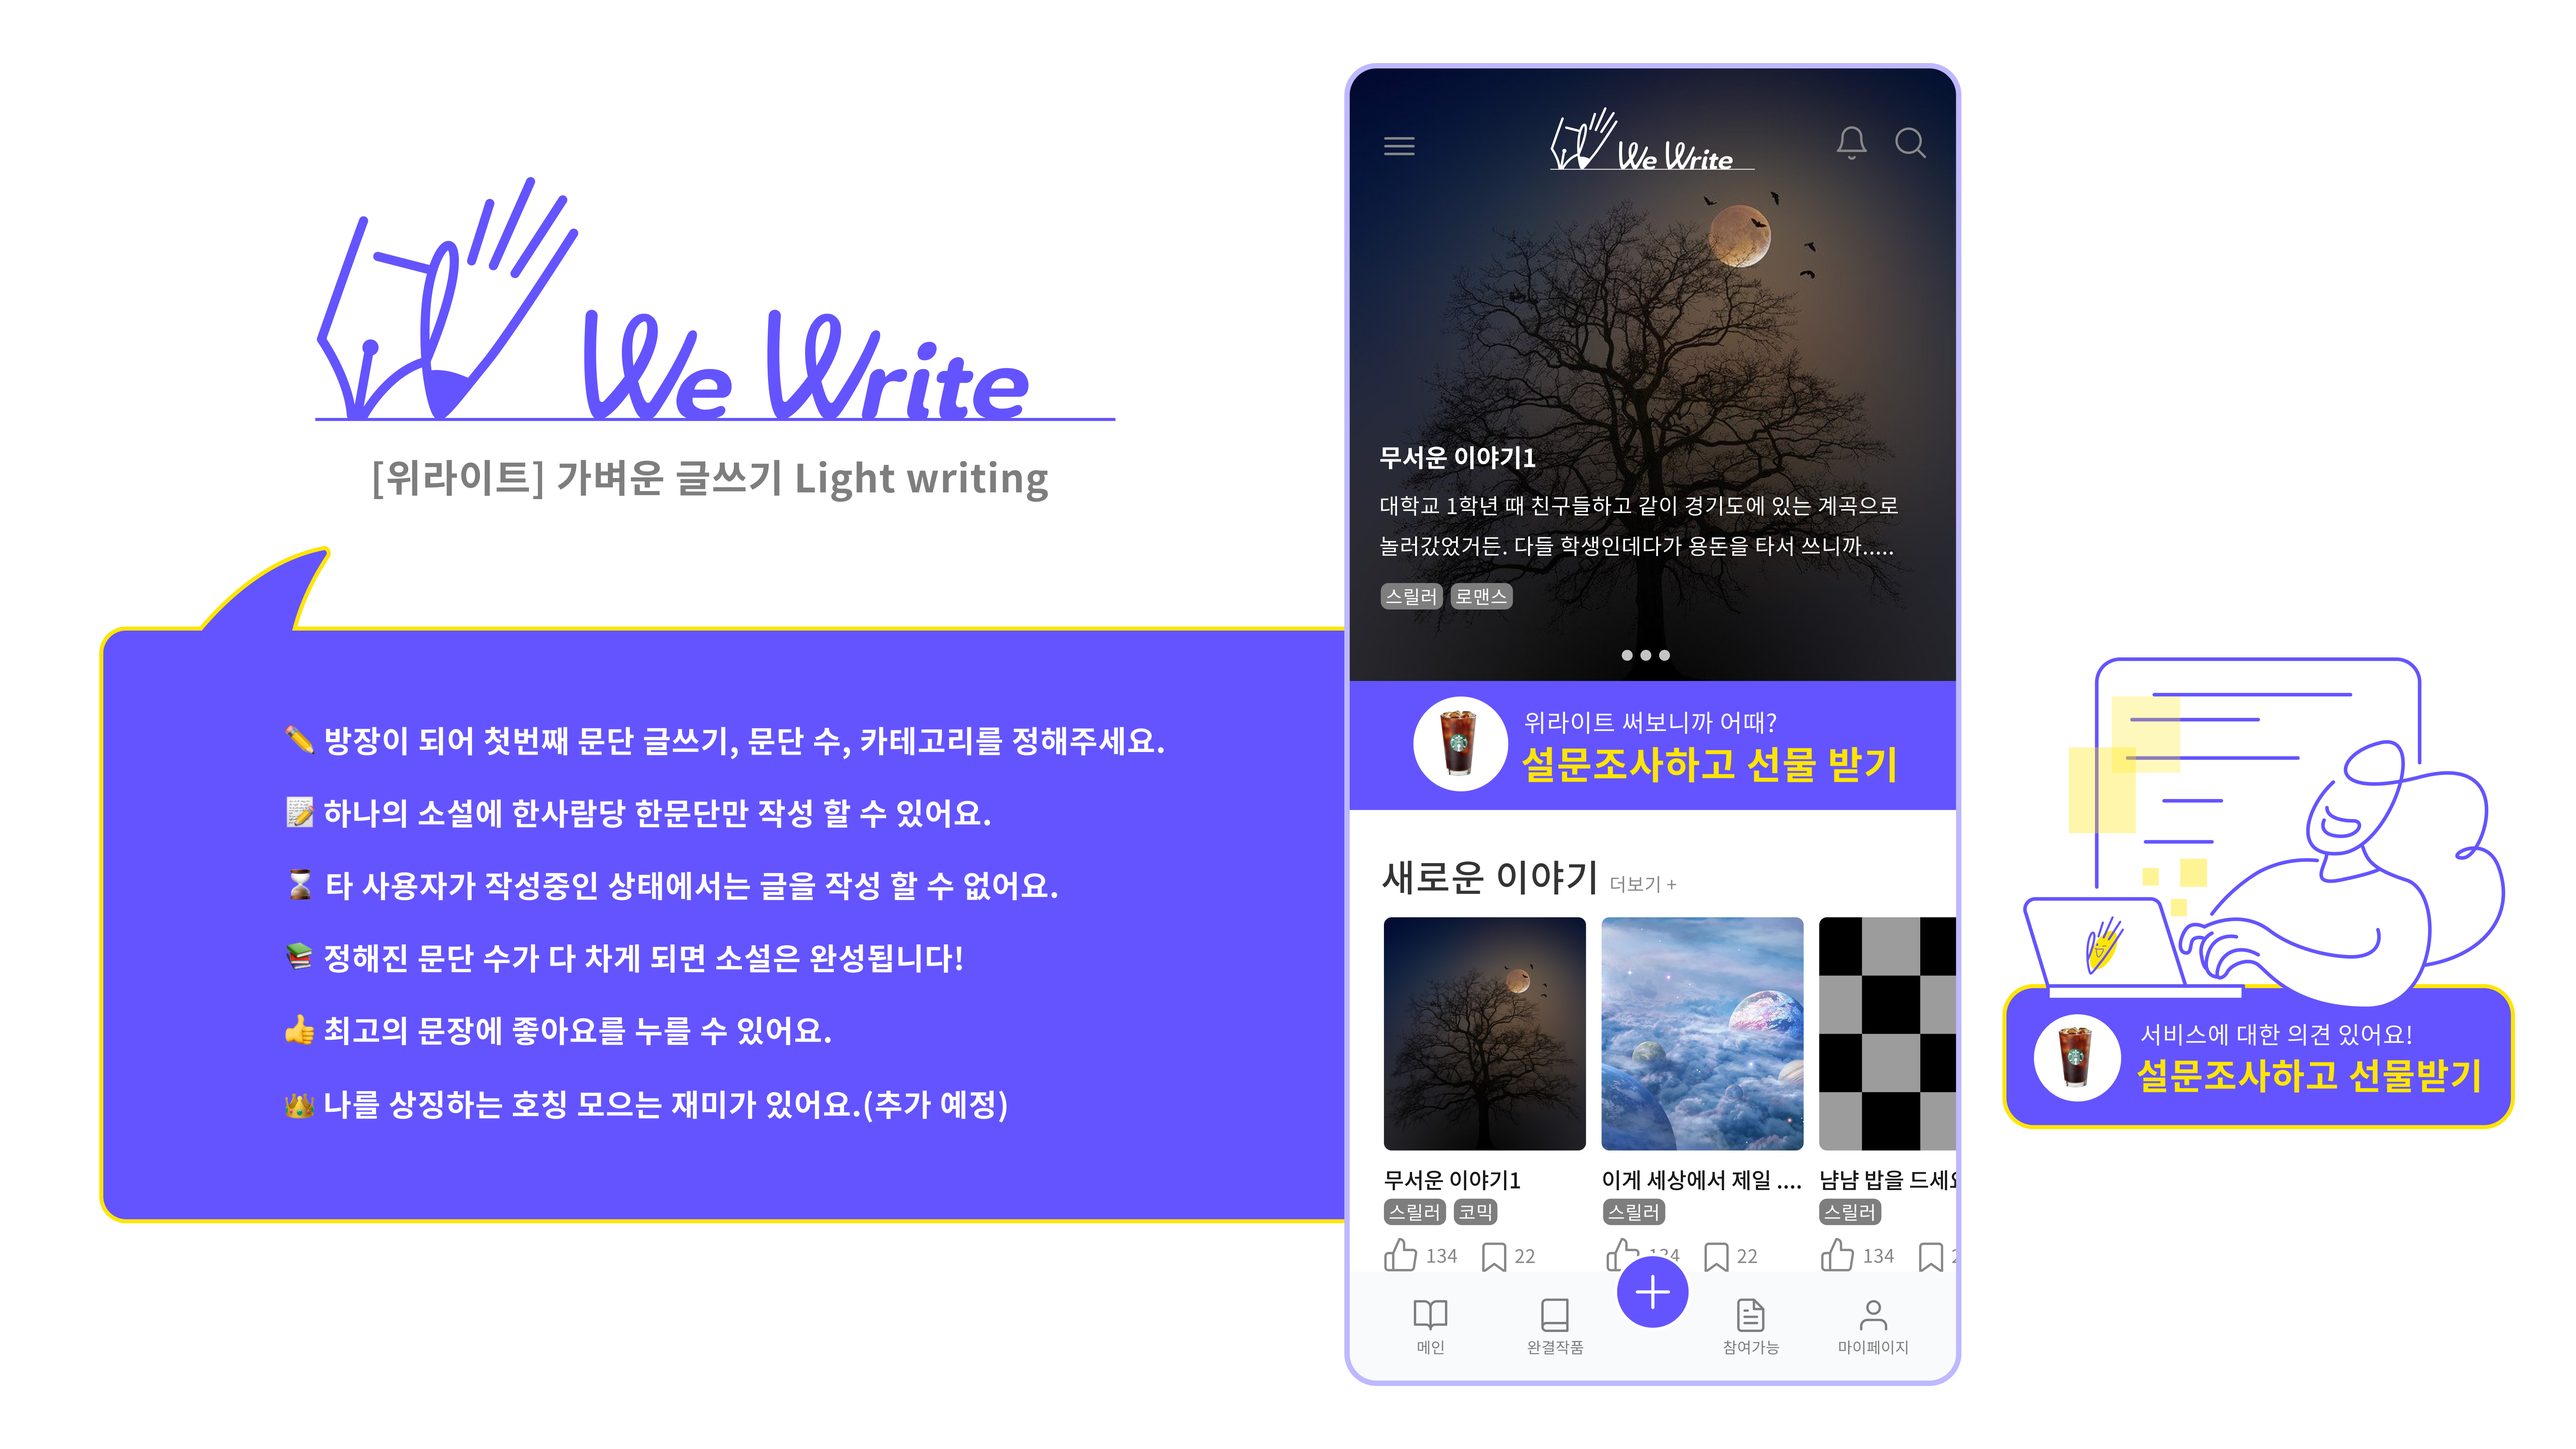
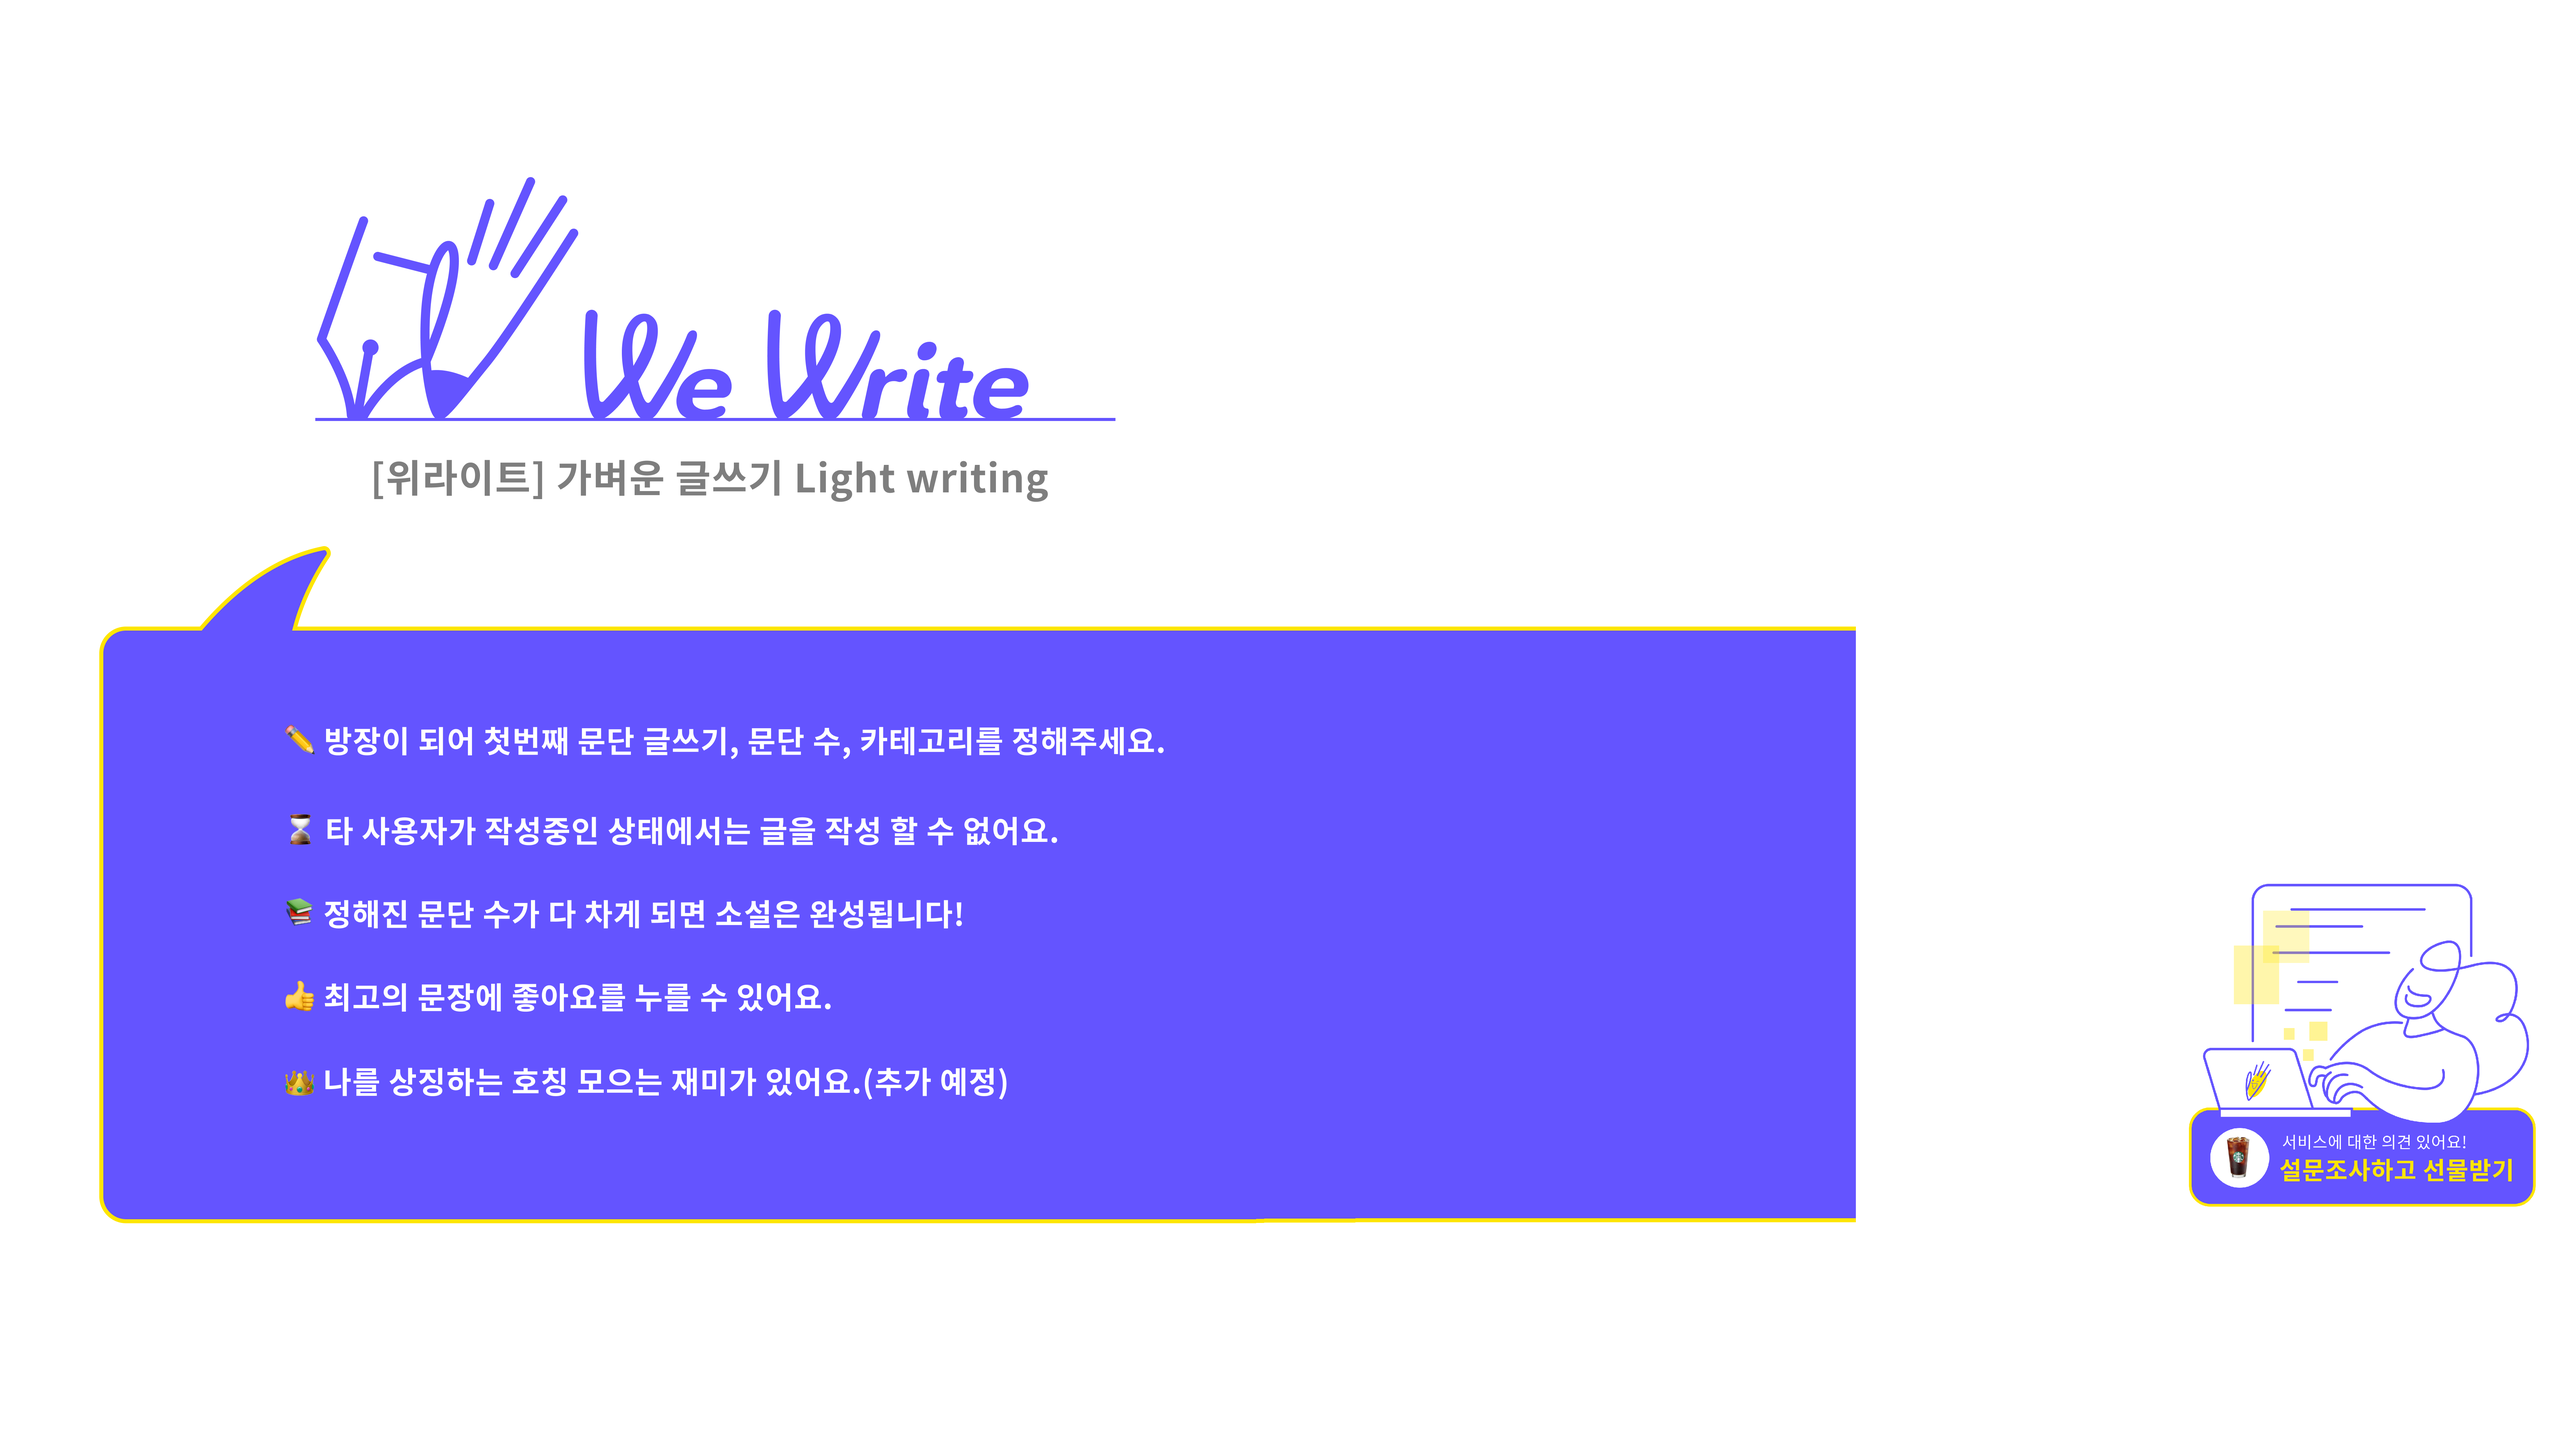
update mobile view

Changed region(s): [[0.5, 0.0312, 1.0, 0.9688], [0.0938, 0.5312, 0.4062, 0.7812]]

diff --git a/src/shared/App.js b/src/shared/App.js
@@ -6,7 +6,11 @@ import ReactGA from 'react-ga';
 
 //import CSS
 import './App.css';
+import '../CSS/Frame.css';
 import theme from '../theme/theme';
+
+import { Button, Grid, Input, Image, Text } from "../elements" 
+
 
 //import Pages
 import Main from "../pages/Main";
@@ -45,25 +49,32 @@ function App() {
   return (
     <React.Fragment>
       <ThemeProvider theme={theme}>
-        <Routes>
-          <Route path="/" element={<Main />} />
-          <Route path="/login" element={<Login />} />
-          <Route path="/login/kakaoLogin" element={<KakaoLogin />} />
-          <Route path="/clause" element={<Clause />} />
-          <Route path="/Signup" element={<Signup />} />
-          <Route path="/userpage/:userKey" element={<UserPage />} />
-          <Route path="/newslist" element={<NewsList />} />
-          <Route path="/postlist/:listType" element={<PostList />} />
-          <Route path="/themepage/:theme" element={<ThemePage />} />
-          <Route path="/write" element={<Write />} />
-          <Route path="/postDetail/:postKey" element={<PostDetail />} />
-          <Route path="/modifyprofile" element={<ModifyProfile />} />
-          <Route path="/changePassword" element={<ChangePassword />} />
-          <Route path="/withdrawMember" element={<WithdrawMember />} />
-          <Route path="/socket" element={<Socket />} />
-          <Route path="/notice" element={<Notice />} />
+        <div className="Frame">
+        <Image position='relative' backgroundSize='contain' backgroundRepeat='no-repeat' width='100vw' height='100vh' src='/background.png'/>
+        </div>
+        <div className="screen" >
+          <Grid borderRadius='10px' boxSizing='border-box' border='5px solid #beb8ff'>
+            <Routes>
+              <Route path="/" element={<Main />} />
+              <Route path="/login" element={<Login />} />
+              <Route path="/login/kakaoLogin" element={<KakaoLogin />} />
+              <Route path="/clause" element={<Clause />} />
+              <Route path="/Signup" element={<Signup />} />
+              <Route path="/userpage/:userKey" element={<UserPage />} />
+              <Route path="/newslist" element={<NewsList />} />
+              <Route path="/postlist/:listType" element={<PostList />} />
+              <Route path="/themepage/:theme" element={<ThemePage />} />
+              <Route path="/write" element={<Write />} />
+              <Route path="/postDetail/:postKey" element={<PostDetail />} />
+              <Route path="/modifyprofile" element={<ModifyProfile />} />
+              <Route path="/changePassword" element={<ChangePassword />} />
+              <Route path="/withdrawMember" element={<WithdrawMember />} />
+              <Route path="/socket" element={<Socket />} />
+              <Route path="/notice" element={<Notice />} />
 
-        </Routes>
+            </Routes>
+          </Grid>
+        </div>
       </ThemeProvider>
     </React.Fragment>
   );

diff --git a/src/CSS/Frame.css b/src/CSS/Frame.css
@@ -1,0 +1,27 @@
+.Frame {
+
+}
+
+
+.screen {
+    position: absolute;
+    z-index : 10;
+    top : 0;
+    right: 18vw;
+}
+
+@media screen and (max-width: 580px) {
+.Frame {
+    display: none;
+}
+}
+
+@media screen and (max-width: 580px) {
+.screen {
+    position: relative;
+    right: 0;
+    display: flex;
+    align-items: center;
+    justify-content: center;
+}  
+}

diff --git a/src/elements/Grid.js b/src/elements/Grid.js
@@ -10,6 +10,7 @@ const Grid = ({
     kakao=false,
     wrap,
     notice,
+    className,
     ...props
 
 }) => {
@@ -46,7 +47,7 @@ const Grid = ({
         )
     }
     return(
-            <Div onClick={onClick} style={{...props}}>
+            <Div className={className} onClick={onClick} style={{...props}}>
                 {children}
             </Div>
 
